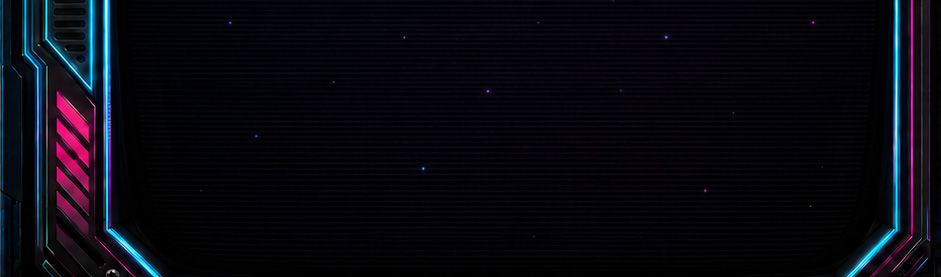
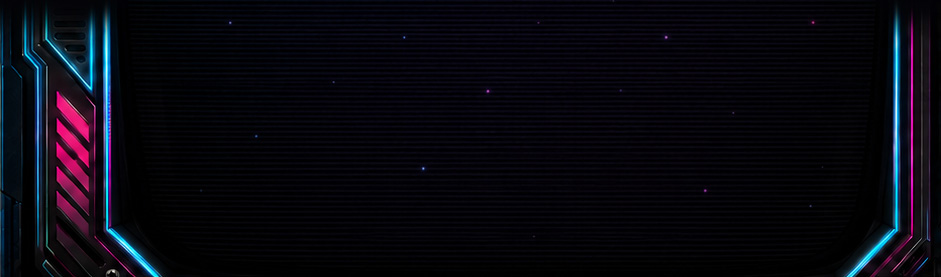
Open up the screen interior to match the artwork glass area
Host region vertical insets were too conservative (98/112px) - the bezel
art's interior runs much closer to the neon frame. Now 36/48px, which sizes
portrait games ~120% as drawn in the reference comp. Landscape games stay
width-bound by the side rails, just better centered.

Changed region(s): [[0.0, 0.0, 0.1233, 0.1444], [0.9245, 0.0, 1.0, 0.1444]]

diff --git a/src/Attractor.App/MainWindow.xaml b/src/Attractor.App/MainWindow.xaml
@@ -83,7 +83,7 @@
           <Image Grid.Row="2" Source="pack://application:,,,/assets/img/bottom_screen.jpg" Stretch="Fill"/>
 
           <!-- the MAME window is glued over this region; snap art masks gaps -->
-          <Grid x:Name="HostRegion" Grid.Row="0" Grid.RowSpan="3" Margin="120,98,50,112">
+          <Grid x:Name="HostRegion" Grid.Row="0" Grid.RowSpan="3" Margin="120,36,50,48">
             <Image Source="{Binding MaskImage}" Stretch="Uniform" Opacity="0.85"
                    RenderOptions.BitmapScalingMode="HighQuality"/>
             <TextBlock Text="{Binding StageMessage}" Foreground="#FF3FE3FF" FontFamily="{StaticResource PixelFont}"
